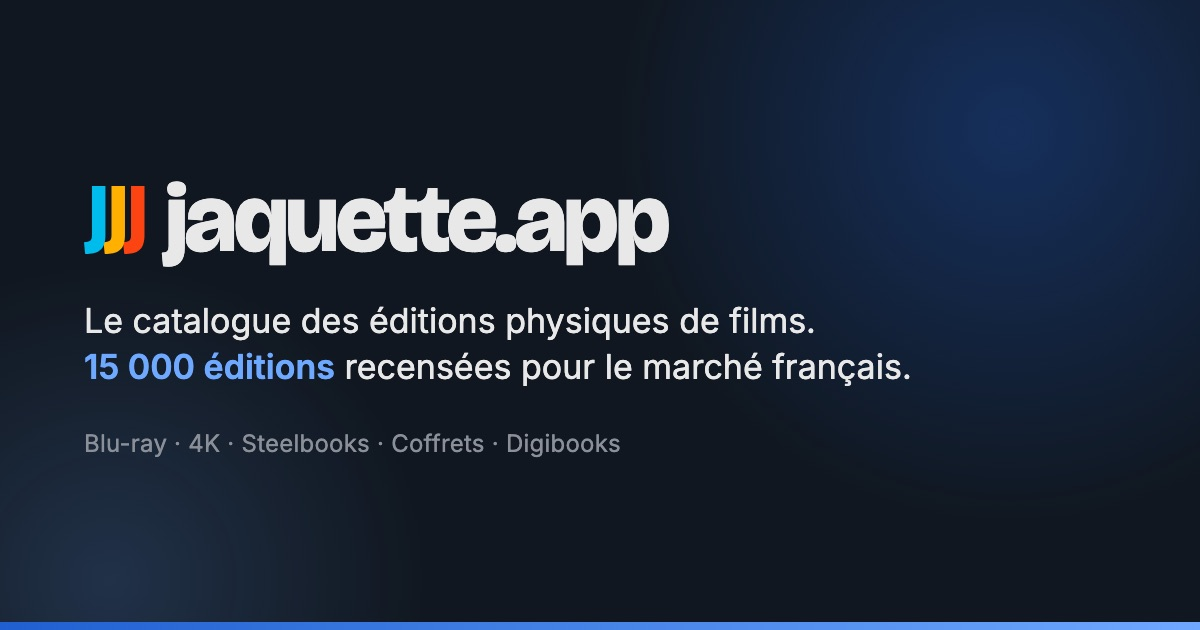
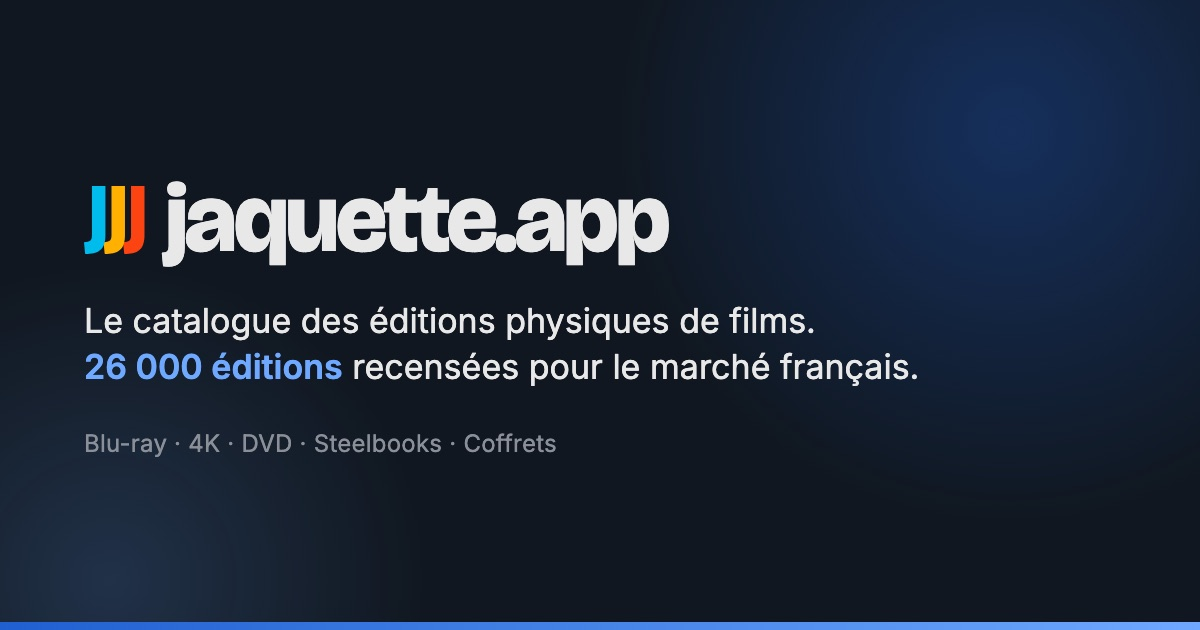
Rattrape les mentions du périmètre coupées sur deux lignes
Le remplacement du périmètre avait manqué deux descriptions du middleware,
l'accueil et /welcome, parce que la chaîne y est scindée par une concaténation :
« Blu-ray, 4K, ` + `steelbooks et coffrets ». Un grep sur la phrase entière ne
les voyait pas, et ce sont précisément les deux pages d'entrée du site.

Le visuel de partage est régénéré depuis son source, qui portait encore
« 15 000 éditions » et pas de DVD. Rendu par Chrome sans interface puis converti
avec sips, la machine n'ayant pas ImageMagick (§8).

À faire à la main : purger og-jaquette.jpg du cache Cloudflare. Le §8 garde la
trace d'un favicon resté trois jours en cache après un redessin, et le jeton
OAuth de wrangler s'arrête à zone:read, sans cache_purge.

Changed region(s): [[0.0617, 0.5429, 0.7708, 0.6032], [0.185, 0.6937, 0.5242, 0.7238]]

diff --git a/functions/_middleware.ts b/functions/_middleware.ts
@@ -1070,7 +1070,7 @@ async function servirAccueil(url: URL, next: () => Promise<Response>): Promise<R
   const meta = {
     titre: `${SITE_NOM}, le catalogue des éditions Blu-ray, 4K et DVD françaises`,
     description:
-      `Les éditions physiques de ${films_total} films et séries publiées en France : Blu-ray, 4K, ` +
+      `Les éditions physiques de ${films_total} films et séries publiées en France : Blu-ray, 4K, DVD, ` +
       `steelbooks et coffrets, avec leurs formats, leur éditeur et leur code-barres.`,
   };
   const corps = enveloppe(
@@ -1317,7 +1317,7 @@ async function servirBienvenue(url: URL, next: () => Promise<Response>): Promise
   const meta = {
     titre: `Bienvenue | ${SITE_NOM}`,
     description:
-      `${SITE_NOM} recense les éditions physiques de films sorties en France : Blu-ray, 4K, ` +
+      `${SITE_NOM} recense les éditions physiques de films sorties en France : Blu-ray, 4K, DVD, ` +
       `steelbooks et coffrets. Marquez ce que vous possédez, gardez la liste de ce qu'il vous manque.`,
   };
   const corps = enveloppe(

diff --git a/scripts/og/og-jaquette.html b/scripts/og/og-jaquette.html
@@ -96,7 +96,7 @@
     </div>
     <p class="accroche">
       Le catalogue des éditions physiques de films.<br />
-      <b>15 000 éditions</b> recensées pour le marché français.
+      <b>26 000 éditions</b> recensées pour le marché français.
     </p>
     <p class="formats">Blu-ray · 4K · DVD · Steelbooks · Coffrets</p>
   </div>
